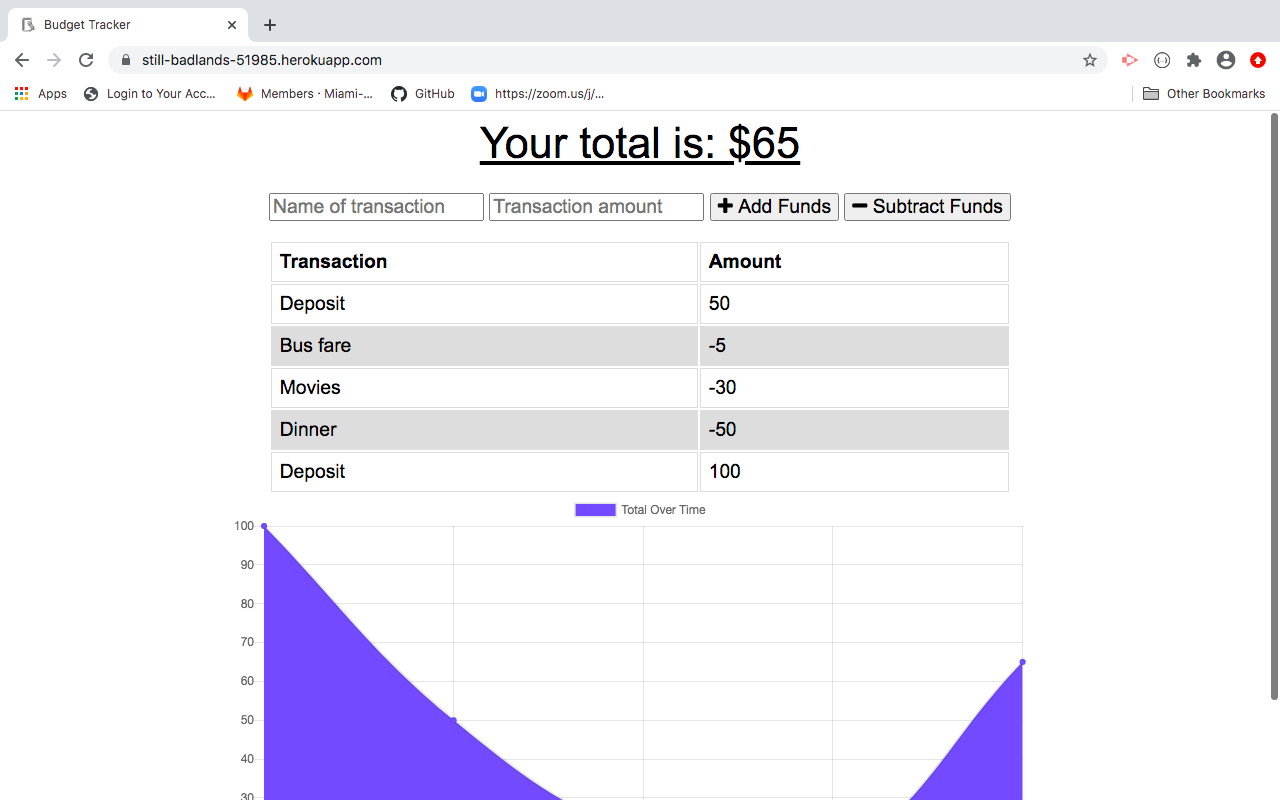
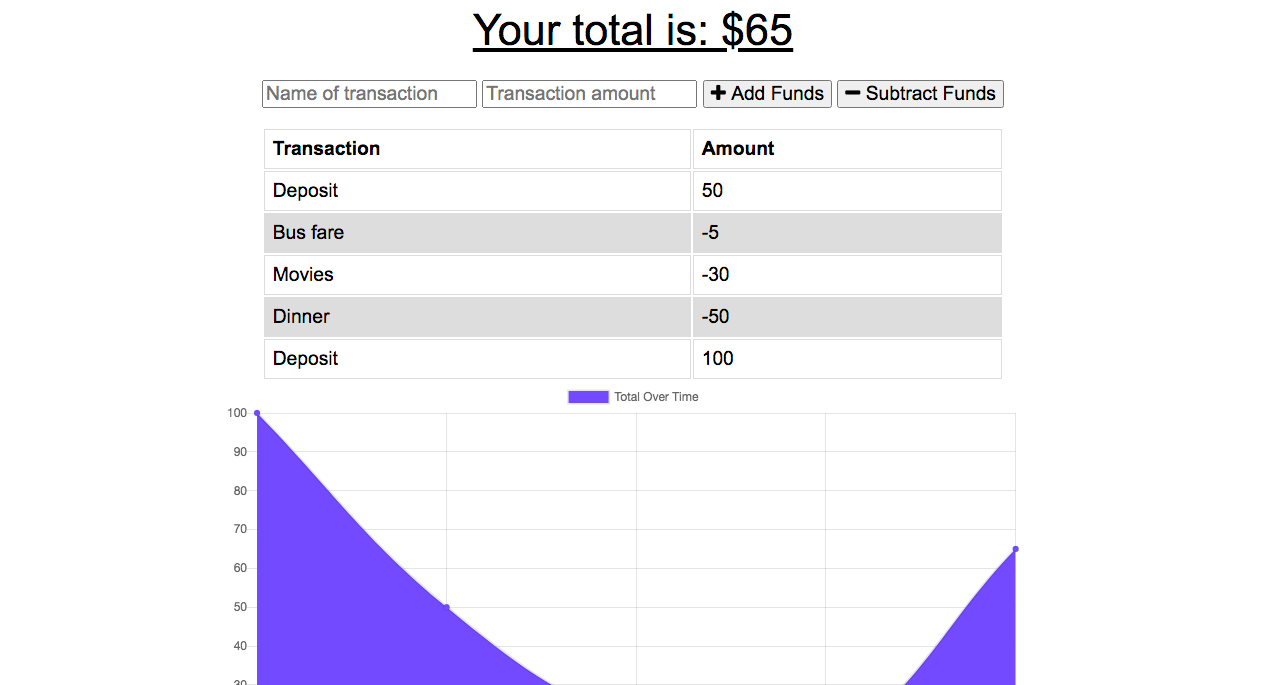
updated README and images

diff --git a/README.md b/README.md
@@ -3,9 +3,6 @@ This is an application that allows users to track their budget offline.  The use
 
 Deployed: https://still-badlands-51985.herokuapp.com/
 
-## Image of Home Page
-<img src="./public/images/homepage.png">
-
-## Images After Information Added
+## Image After Information Added
 <img src="./public/images/infoadded.png">
-<img src="./public/images/infoadded2.png">
+
